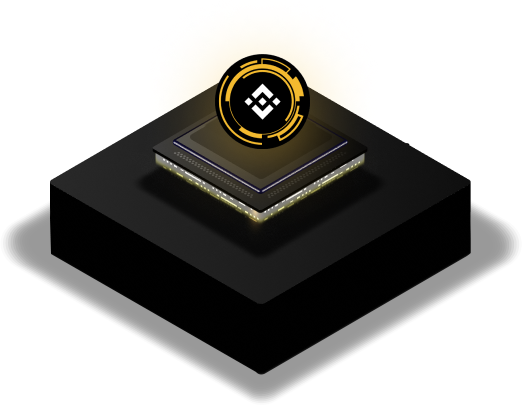
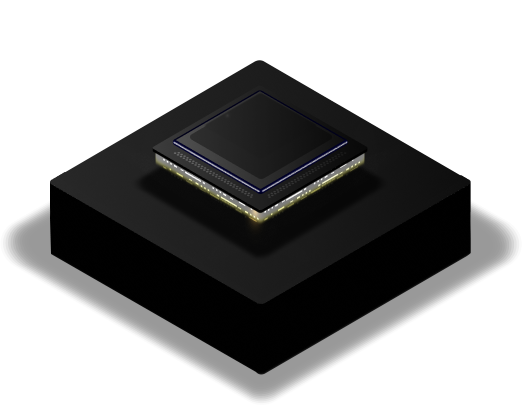
corrections

diff --git a/src/components/Home/RoadmapSec.tsx b/src/components/Home/RoadmapSec.tsx
@@ -16,7 +16,7 @@ export default function RoadmapSec() {
                 <Box className='roadmap_cntnt'>
                     <Box className='road_cntnt_row road_cntnt_row_01'>
                         <Box className='road_map_img_prnt' data-aos="zoom-out" data-aos-delay="700">
-                            <Box className='box_sadow' />
+                            <Box className='box_sadow pulse' />
                             <Image src='img/road_map_img01.png' alt='' className='road_map_img0' />
                         </Box>
                         <Box className='road_text_prnt' data-aos="fade-up" data-aos-delay="500">
@@ -26,7 +26,7 @@ export default function RoadmapSec() {
                     </Box>
                     <Box className='road_cntnt_row'>
                         <Box className='road_map_img_prnt' data-aos="zoom-out" data-aos-delay="800">
-                            <Box className='box_sadow' />
+                            <Box className='box_sadow pulse' />
                             <Image src='img/road_map_img02.png' alt='' className='road_map_img0' />
                         </Box>
                         <Box className='road_text_prnt' data-aos="fade-up" data-aos-delay="600">
@@ -36,7 +36,7 @@ export default function RoadmapSec() {
                     </Box>
                     <Box className='road_cntnt_row'>
                         <Box className='road_map_img_prnt' data-aos="zoom-out" data-aos-delay="900">
-                            <Box className='box_sadow' />
+                            <Box className='box_sadow pulse' />
                             <Image src='img/road_map_img03.png' alt='' className='road_map_img0' />
                         </Box>
                         <Box className='road_text_prnt' data-aos="fade-up" data-aos-delay="700">
@@ -46,7 +46,7 @@ export default function RoadmapSec() {
                     </Box>
                     <Box className='road_cntnt_row'>
                         <Box className='road_map_img_prnt' data-aos="zoom-out" data-aos-delay="1000">
-                            <Box className='box_sadow' />
+                            <Box className='box_sadow pulse' />
                             <Image src='img/road_map_img04.png' alt='' className='road_map_img0' />
                         </Box>
                         <Box className='road_text_prnt' data-aos="fade-up" data-aos-delay="800">
@@ -54,9 +54,9 @@ export default function RoadmapSec() {
                             <Text>The dedicated marketing vault will receive 20% of all collected trade fees. After contract upgrades are complete and our automatic buybacks are in place our maketing vault will allow us to continue to ramp up upBNB’s marketing efforts.</Text>
                         </Box>
                     </Box>
-                    <Box className='road_cntnt_row'>
+                    {/* <Box className='road_cntnt_row'>
                         <Box className='road_map_img_prnt' data-aos="zoom-out" data-aos-delay="1100">
-                            <Box className='box_sadow' />
+                            <Box className='box_sadow pulse' />
                             <Image src='img/road_map_img05.png' alt='' className='road_map_img0' />
                         </Box>
                         <Box className='road_text_prnt' data-aos="fade-up" data-aos-delay="900">
@@ -66,14 +66,14 @@ export default function RoadmapSec() {
                     </Box>
                     <Box className='road_cntnt_row'>
                         <Box className='road_map_img_prnt' data-aos="zoom-out" data-aos-delay="1200">
-                            <Box className='box_sadow' />
+                            <Box className='box_sadow pulse' />
                             <Image src='img/road_map_img06.png' alt='' className='road_map_img0' />
                         </Box>
                         <Box className='road_text_prnt' data-aos="fade-up" data-aos-delay="1000">
                             <Heading as="h5">Activate New Buy-Back Vault</Heading>
                             <Text>Our newest vault, still in development, will have an auto-buy-back feature with customizable paramiters. We will be working closely with our community to choose the vaults buy-back strategies.</Text>
                         </Box>
-                    </Box>
+                    </Box> */}
                 </Box>
                 <Box className='enter_roadmap_btn_prnt'>
                     <Button as="a" href='#' className='enter_roadmap_btn'>ENTER APP</Button>

diff --git a/src/assets/css/App.scss b/src/assets/css/App.scss
@@ -303,7 +303,7 @@ body{
 }
 .homepage_main {
   background: url(../img/homepage_bg.jpg) no-repeat center;
-  min-height: 6992px;
+  // min-height: 6992px;
   background-size: cover;
 }
 .upcro_launch_main{
@@ -658,9 +658,15 @@ body{
     .techno_img_prnt{
       margin-top: auto;
       margin-bottom: -15px;
+      position: relative;
       // img{
       //   mix-blend-mode: multiply;
       // }
+      .circle_img {
+        position: absolute;
+        left: 41%;
+        top: 12%;
+      }
     }
     .darkbg_btn_bx{
       background: #000000;
@@ -673,6 +679,8 @@ body{
       display: flex;
       align-items: center;
       justify-content: center;
+      position: relative;
+      z-index: 1;
       a{
         width: 206px;
         height: 42px;
@@ -1107,6 +1115,14 @@ body{
     border-radius: 16px;
     max-width: 400px;
     margin: 0 auto;
+    .slider_img_0{
+      -webkit-transition: 0.4s ease;
+      transition: 0.4s ease;
+    }
+    .slider_img_0:hover{
+      -webkit-transform: scale(1.08);
+      transform: scale(1.08);
+    }
     .slider_text_box{
       padding: 20px 20px 35px 20px;
       display: flex;
@@ -1393,6 +1409,7 @@ body{
       .road_map_img0 {
         height: 180px;
         width: 180px;
+        position: relative;
       }
       .road_text_prnt{
         margin-left: 24px;
@@ -1422,6 +1439,8 @@ body{
     display: flex;
     justify-content: center;
     margin-top: 38px !important;
+    position: relative;
+    z-index: 1;
   }
   .enter_roadmap_btn{
     position: relative;
@@ -1624,7 +1643,6 @@ body{
           height: 42px;
           border: 1px solid #F3BA2F;
           position: relative;
-          z-index: 1;
           box-shadow: none !important;
           transition: all 0.2s ease-out;
           &:hover{
@@ -1736,7 +1754,8 @@ body{
   align-items: center;
   justify-content: center;
   padding: 40px 0 25px 0;
-  background: #000000;
+  background: url(../img/footer_bg.jpg) no-repeat center 0;
+  background-size: cover;
   h4{
     font-family: $f_primary;
     font-weight: 600;
@@ -3362,5 +3381,41 @@ body{
   }
   .pools_main .pool_list_box .flex_chart_header .search_bar {
     height: 40px;
+  }
+}
+.pulse {
+  
+  border-radius: 50%;
+  cursor: pointer;
+  box-shadow: 0px 15px 80px rgba(243, 186, 47, 0.5);
+  animation: pulse 2s infinite;
+}
+.pulse:hover {
+  animation: none;
+}
+
+@-webkit-keyframes pulse {
+  0% {
+    -webkit-box-shadow: 0px 15px 80px rgba(243, 186, 47, 0.5);
+  }
+  70% {
+      -webkit-box-shadow: 0px 15px 80px rgba(243, 186, 47, 0);
+  }
+  100% {
+      -webkit-box-shadow: 0px 15px 80px rgba(243, 186, 47, 0.5);
+  }
+}
+@keyframes pulse {
+  0% {
+    -moz-box-shadow: 0px 15px 80px rgba(243, 186, 47, 0.5);
+    box-shadow: 0px 15px 80px rgba(243, 186, 47, 0.5);
+  }
+  70% {
+      -moz-box-shadow: 0px 15px 80px rgba(243, 186, 47, 0);
+      box-shadow: 0px 15px 80px rgba(243, 186, 47, 0);
+  }
+  100% {
+      -moz-box-shadow: 0px 15px 80px rgba(243, 186, 47, 0.5);
+      box-shadow: 0px 15px 80px rgba(243, 186, 47, 0.5);
   }
 }

diff --git a/src/components/Home/ArticleSec.tsx b/src/components/Home/ArticleSec.tsx
@@ -42,7 +42,7 @@ export default function ArticleSec() {
                         <div>
                             <Box className='artcl_slider_cntnt'>
                                 <Box className='artcl_slider_inn'>
-                                    <Image src='img/slider_img_01.png' alt='' />
+                                    <Image src='img/slider_img_01.png' className='slider_img_0' alt='' />
                                     <Box className='slider_text_box'>
                                         <Heading as="h4">UpBNB to launch on Empire Dex</Heading>
                                         <Box className='flex_box'>
@@ -56,7 +56,7 @@ export default function ArticleSec() {
                         <div>
                             <Box className='artcl_slider_cntnt'>
                                 <Box className='artcl_slider_inn'>
-                                    <Image src='img/slider_img_02.png' alt='' />
+                                    <Image src='img/slider_img_02.png' className='slider_img_0' alt='' />
                                     <Box className='slider_text_box'>
                                         <Heading as="h4">ROOT Bridge User guide</Heading>
                                         <Box className='flex_box'>
@@ -70,7 +70,7 @@ export default function ArticleSec() {
                         <div>
                             <Box className='artcl_slider_cntnt'>
                                 <Box className='artcl_slider_inn'>
-                                    <Image src='img/slider_img_03.png' alt='' />
+                                    <Image src='img/slider_img_03.png' className='slider_img_0' alt='' />
                                     <Box className='slider_text_box'>
                                         <Heading as="h4">xToken Staking and the Drip Vault</Heading>
                                         <Box className='flex_box'>
@@ -84,7 +84,7 @@ export default function ArticleSec() {
                         <div>
                             <Box className='artcl_slider_cntnt'>
                                 <Box className='artcl_slider_inn'>
-                                    <Image src='img/slider_img_01.png' alt='' />
+                                    <Image src='img/slider_img_01.png' className='slider_img_0' alt='' />
                                     <Box className='slider_text_box'>
                                         <Heading as="h4">ROOT Bridge User guide</Heading>
                                         <Box className='flex_box'>

diff --git a/src/components/Home/FirstSec.tsx b/src/components/Home/FirstSec.tsx
@@ -1,8 +1,21 @@
 import React from 'react'
 import { Box, SimpleGrid, GridItem, Heading, Text, Button, Image } from '@chakra-ui/react'
 import { Element } from 'react-scroll';
+import { motion, useMotionValue, useTransform } from "framer-motion";
 
 export default function FirstSec() {
+    const x = useMotionValue(200);
+    const y = useMotionValue(200);
+
+    const rotateX = useTransform(y, [0, 400], [15, -15]);
+    const rotateY = useTransform(x, [0, 400], [-15, 15]);
+
+    function handleMouse(event:any) {
+        const rect = event.currentTarget.getBoundingClientRect();
+
+        x.set(event.clientX - rect.left);
+        y.set(event.clientY - rect.top);
+    }
   return (
     <>
     <Element name='Introduction'>
@@ -27,7 +40,23 @@ export default function FirstSec() {
                         <GridItem colSpan={[12, 12, 12, 6]}>
                             <Box className='launch_text_box' data-aos="zoom-in" data-aos-delay="500">
                                 <Box className='radial_gradiant_box'>
-                                    <Image src='img/upbnb_first_sec.png' className='upcro_first_img' />
+                                <motion.div onMouseMove={handleMouse}
+                                    style={{
+                                        display: "flex",
+                                        placeItems: "center",
+                                        placeContent: "center",
+                                        perspective: 400
+                                    }}>
+                                    <motion.div 
+                                    style={{
+                                        rotateX: rotateX,
+                                        rotateY: rotateY
+                                    }}>
+                                        <Image src='img/upbnb_first_sec.png' className='upcro_first_img' />
+                                    </motion.div>
+                                </motion.div>
+                                    
+                                    
                                     {/* <Image src='img/upcro_first_img.png' className='upcro_first_img' /> */}
                                 </Box>
                             </Box>

diff --git a/src/components/Home/TeamSec.tsx b/src/components/Home/TeamSec.tsx
@@ -1,8 +1,21 @@
 import React from 'react'
 import { Box, Container, Heading, SimpleGrid, GridItem, Button, Text, Image } from '@chakra-ui/react'
 import { Element } from 'react-scroll';
+import { motion, useMotionValue, useTransform } from "framer-motion";
 
 export default function TeamSec() {
+    const x = useMotionValue(200);
+    const y = useMotionValue(200);
+
+    const rotateX = useTransform(y, [0, 400], [15, -15]);
+    const rotateY = useTransform(x, [0, 400], [-15, 15]);
+
+    function handleMouse(event:any) {
+        const rect = event.currentTarget.getBoundingClientRect();
+
+        x.set(event.clientX - rect.left);
+        y.set(event.clientY - rect.top);
+    }
   return (
     <>
     <Element name='Team'>
@@ -24,7 +37,22 @@ export default function TeamSec() {
                             </GridItem>
                             <GridItem colSpan={[12, 12, 12, 6]}>
                                 <Box className='team_p_prnt team_img_prnt'>
-                                    <Image src='img/team_img.png' alt='' />
+                                <motion.div onMouseMove={handleMouse}
+                                    style={{
+                                        display: "flex",
+                                        placeItems: "center",
+                                        placeContent: "center",
+                                        perspective: 400
+                                    }}>
+                                    <motion.div 
+                                    style={{
+                                        rotateX: rotateX,
+                                        rotateY: rotateY
+                                    }}>
+                                        <Image src='img/team_img.png' alt='' />
+                                    </motion.div>
+                                </motion.div>
+                                    {/* <Image src='img/team_img.png' alt='' /> */}
                                 </Box>
                             </GridItem>
                         </SimpleGrid>

diff --git a/src/components/Home/FeaturesSec.tsx b/src/components/Home/FeaturesSec.tsx
@@ -1,8 +1,21 @@
 import React from 'react'
 import { Box, Container, SimpleGrid, GridItem, Heading, Text, Image } from '@chakra-ui/react'
 import { Element } from 'react-scroll';
+import { motion, useMotionValue, useTransform } from "framer-motion";
 
 export default function FeaturesSec() {
+    const x = useMotionValue(200);
+    const y = useMotionValue(200);
+
+    const rotateX = useTransform(y, [0, 400], [15, -15]);
+    const rotateY = useTransform(x, [0, 400], [-15, 15]);
+
+    function handleMouse(event:any) {
+        const rect = event.currentTarget.getBoundingClientRect();
+
+        x.set(event.clientX - rect.left);
+        y.set(event.clientY - rect.top);
+    }
   return (
     <>
     <Element name='Features'>
@@ -21,7 +34,22 @@ export default function FeaturesSec() {
                     </GridItem>
                     <GridItem colSpan={[12, 12, 12, 6]}>
                         <Box className='feature_img_prnt' data-aos="zoom-in" data-aos-delay="500">
-                            <Image src='img/newfeature_img.png' alt='' />
+                        <motion.div onMouseMove={handleMouse}
+                                    style={{
+                                        display: "flex",
+                                        placeItems: "center",
+                                        placeContent: "center",
+                                        perspective: 400
+                                    }}>
+                                    <motion.div 
+                                    style={{
+                                        rotateX: rotateX,
+                                        rotateY: rotateY
+                                    }}>
+                                        <Image src='img/newfeature_img.png' alt='' />
+                                    </motion.div>
+                                </motion.div>
+                            {/* <Image src='img/newfeature_img.png' alt='' /> */}
                         </Box>
                     </GridItem>
                 </SimpleGrid>

diff --git a/src/components/Home/TechnologySec.tsx b/src/components/Home/TechnologySec.tsx
@@ -14,6 +14,7 @@ export default function TechnologySec() {
               UpTokens are highly volatile speculative assets that allow for price exposure to a paired asset while incorporating our ERC-31337 <b>Pumpanomics</b> for maximum value extraction. Using AMM pricing mechanisms, permanently locked liquidity pools and a fixed supply currency we are able to establish a price floor (or minimum lifetime value) for our token. Our ERC-31337 “ELITE” standard then allows us to sweep the tokens under the price floor and recapture that value in our vault, allowing for the reuse of the BNB within our system multiple times. 
             </Text>
           <Box className='techno_img_prnt' data-aos="zoom-in" data-aos-delay="500">
+            <Image src="img/circle_img.png" alt='' className='circle_img pulse' />
             <Image src="img/techno_img.png" alt='' className='techno_img' />
           </Box>
           <Box className='darkbg_btn_bx'>
